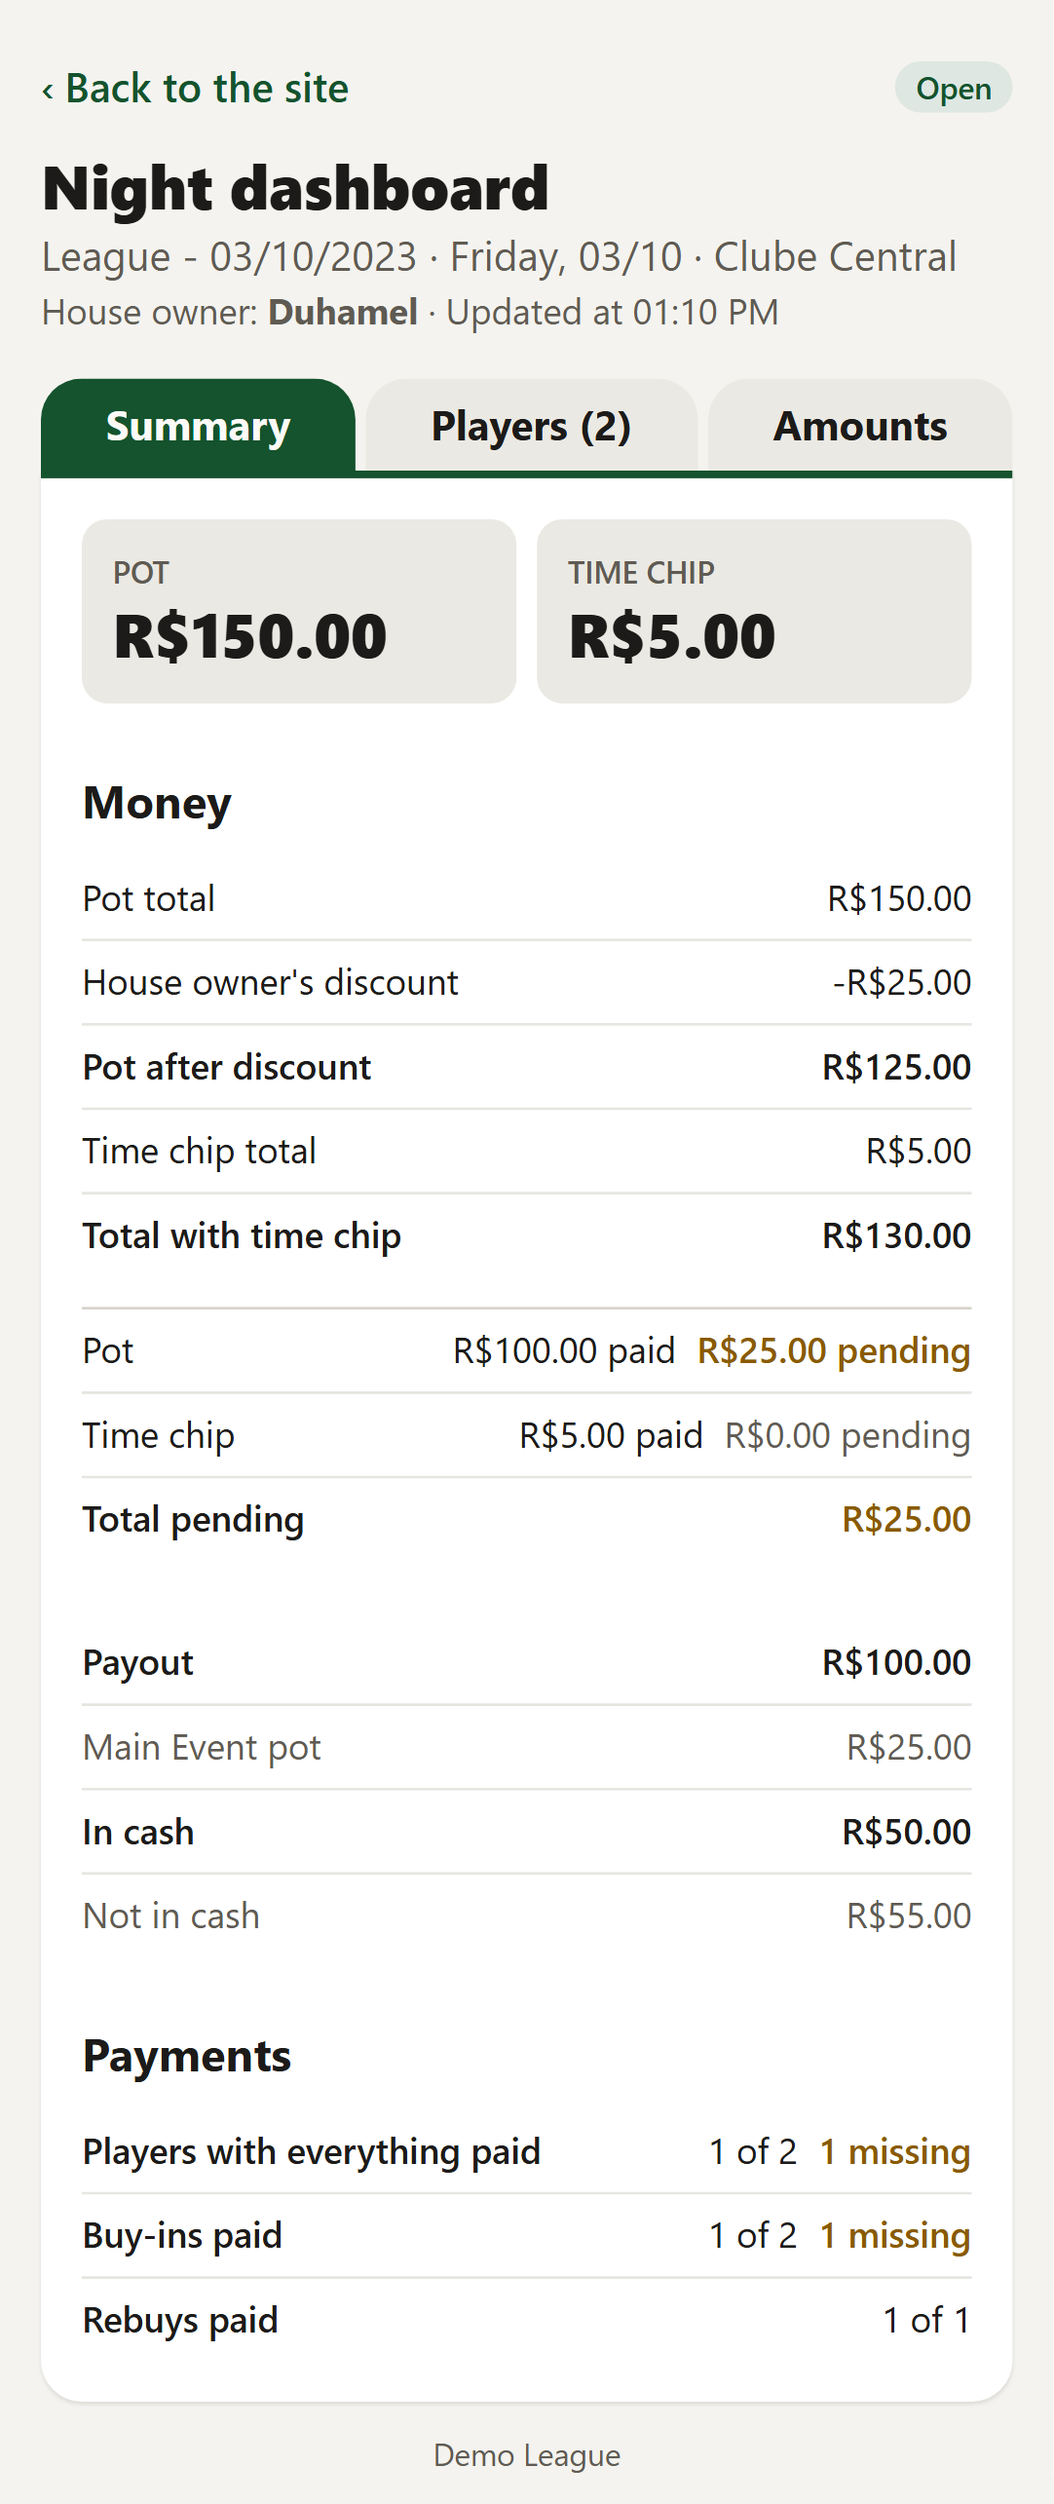
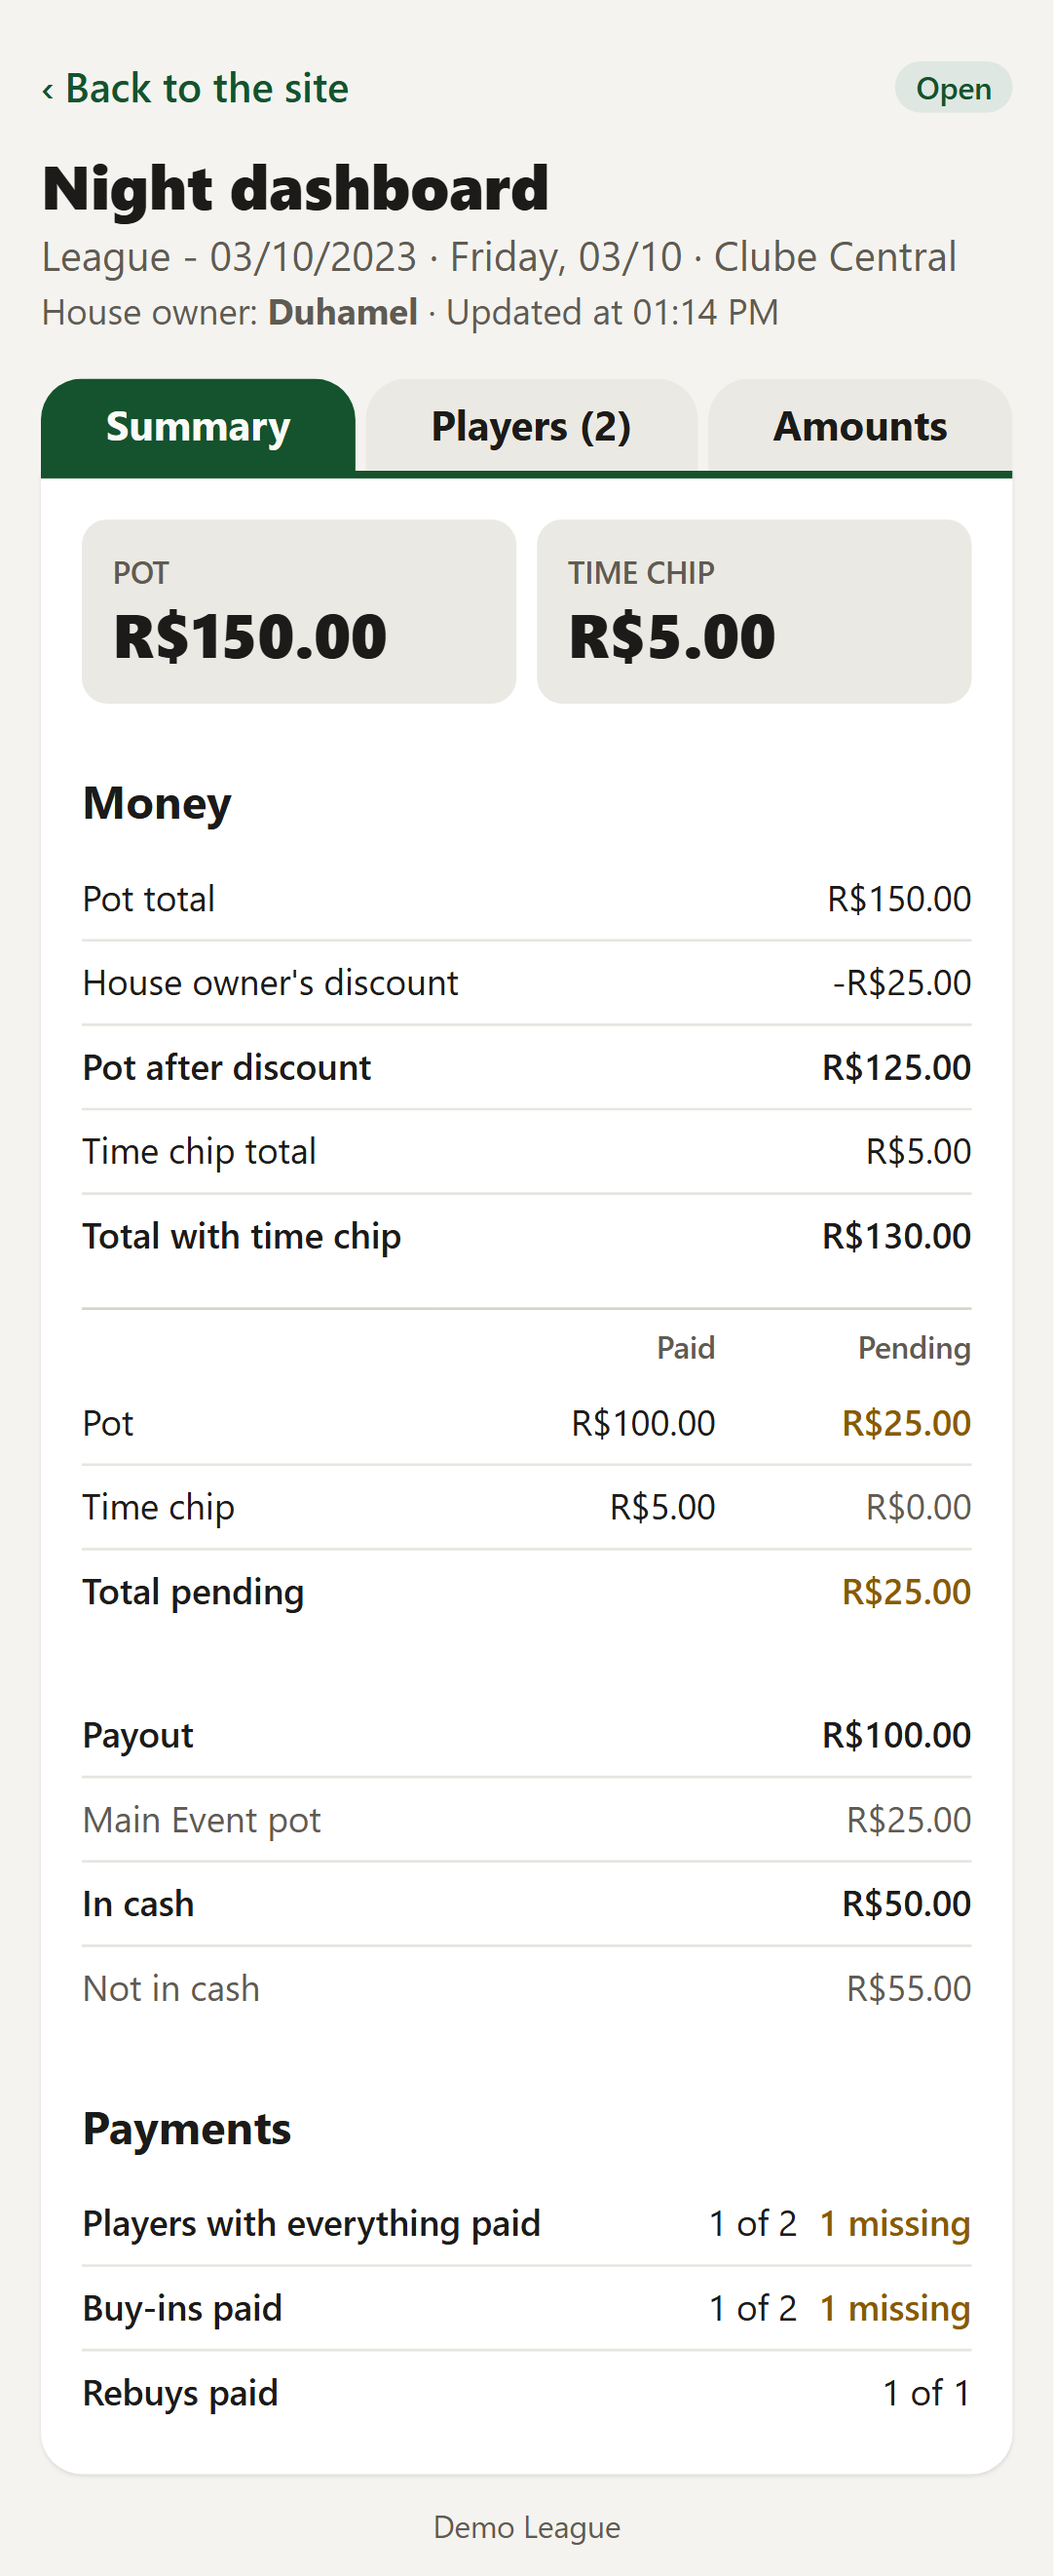
Line the summary's paid and pending up in a table
Claude-Session: https://claude.ai/code/session_019eCHvjApLfup8M1aYvA3m7

diff --git a/frontend/tests/night-dashboard.spec.ts b/frontend/tests/night-dashboard.spec.ts
@@ -50,14 +50,14 @@ test('players record the payments of an open night on its dashboard, and the kee
   await expect(marksOf(page, 'Jacobson').getByRole('button', { name: 'Buy-in' })).toHaveAttribute('aria-pressed', 'true')
   // The tap confirmed him: his row says when
   await expect(page.getByRole('listitem').filter({ hasText: 'Jacobson' })).toContainText(/Confirmou \d{2}\/\d{2} às \d{2}:\d{2}/)
-  await expect(money(page)).toContainText('PotePago R$ 50,00Falta R$ 0,00')
+  await expect(money(page)).toContainText('PoteR$ 50,00R$ 0,00')
 
   // A rebuy is owed until it is marked as paid, and adds its time chip, which is shown apart from the pot
   await marksOf(page, 'Jacobson').getByRole('button', { name: '+ Rebuy' }).click()
   await expect(totals(page)).toContainText('PoteR$ 100,00')
   await expect(totals(page)).toContainText('Time chipR$ 5,00')
-  await expect(money(page)).toContainText('PotePago R$ 50,00Falta R$ 50,00')
-  await expect(money(page)).toContainText('Time chipPago R$ 0,00Falta R$ 5,00')
+  await expect(money(page)).toContainText('PoteR$ 50,00R$ 50,00')
+  await expect(money(page)).toContainText('Time chipR$ 0,00R$ 5,00')
   await marksOf(page, 'Jacobson').getByRole('button', { name: 'Rebuy 1' }).click()
   await expect(money(page)).toContainText('Total com time chipR$ 105,00')
   await expect(money(page)).toContainText('Total que faltaR$ 0,00')
@@ -82,7 +82,7 @@ test('players record the payments of an open night on its dashboard, and the kee
   await expect(page.getByText('Dono da casa: Duhamel')).toBeVisible()
   await expect(totals(page)).toContainText('PoteR$ 150,00')
   await expect(money(page)).toContainText('Desconto do dono da casa-R$ 25,00Pote com descontoR$ 125,00')
-  await expect(money(page)).toContainText('PotePago R$ 100,00Falta R$ 25,00')
+  await expect(money(page)).toContainText('PoteR$ 100,00R$ 25,00')
 
   // Each amount is in a closed field until it is marked "Manual". The Main Event pot is the season's share of the money
   await openTab(page, 'Valores')
@@ -107,7 +107,7 @@ test('players record the payments of an open night on its dashboard, and the kee
   await page.getByRole('button', { name: 'Salvar' }).click()
   await expect(totals(page)).toContainText('PoteR$ 150,00')
   await expect(money(page)).toContainText('Desconto do dono da casa-R$ 25,00')
-  await expect(money(page)).toContainText('PotePago R$ 100,00Falta R$ 25,00')
+  await expect(money(page)).toContainText('PoteR$ 100,00R$ 25,00')
   await expect(page.getByLabel('Pote ME (R$)')).toHaveValue('25,00')
   // An adjustment of what was not in cash, for anything out of the ordinary, takes a negative amount
   // …in a field that shows only once its mark is ticked
@@ -142,7 +142,7 @@ test('players record the payments of an open night on its dashboard, and the kee
   await openTab(keeper, /^Jogadores/)
   await expect(marksOf(keeper, 'Jacobson').getByRole('button', { name: 'Rebuy 1' })).toHaveAttribute('aria-pressed', 'true')
   await marksOf(keeper, 'Duhamel').getByRole('button', { name: 'Buy-in' }).click()
-  await expect(money(keeper)).toContainText('PotePago R$ 125,00')
+  await expect(money(keeper)).toContainText('PoteR$ 125,00')
   // …which the player's dashboard shows by itself a few seconds later
   await openTab(page, /^Jogadores/)
   await expect(marksOf(page, 'Duhamel').getByRole('button', { name: 'Buy-in' })).toHaveAttribute('aria-pressed', 'true', { timeout: 20_000 })
@@ -205,7 +205,7 @@ test('an admin undoes the opening of a night opened by mistake, and what its das
   await openTab(page, /^Jogadores/)
   await page.getByRole('searchbox', { name: 'Adicionar jogador' }).fill('jacob')
   await page.getByRole('group', { name: 'Adicionar Jacobson' }).getByRole('button', { name: 'Buy-in pago' }).click()
-  await expect(money(page)).toContainText('PotePago R$ 50,00Falta R$ 0,00')
+  await expect(money(page)).toContainText('PoteR$ 50,00R$ 0,00')
   // A results keeper cannot undo the opening
   await page.goto(nightUrl)
   await expect(page.getByRole('link', { name: /Finalizar/ })).toBeVisible()

diff --git a/frontend/src/features/dashboard/NightDashboardView.tsx b/frontend/src/features/dashboard/NightDashboardView.tsx
@@ -454,23 +454,34 @@ function DashboardSummary({ dashboard }: { dashboard: NightDashboard }) {
             </div>
           ))}
         </dl>
-        <dl className="mt-3 divide-y divide-border/60 border-t border-border text-sm">
-          {balances.map(({ label, amounts }) => (
-            <div key={label} className="flex flex-wrap items-baseline justify-between gap-x-2 py-1.5">
-              <dt>{label}</dt>
-              <dd className="text-right tabular">
-                {t.dashboard.totals.paid({ amount: formatMoney(amounts.paid) })}
-                <span className={`ml-2 ${Number(amounts.pending) > 0 ? 'font-semibold text-warning' : 'text-muted'}`}>
-                  {t.dashboard.totals.pending({ amount: formatMoney(amounts.pending) })}
-                </span>
-              </dd>
-            </div>
-          ))}
-          <div className="flex items-baseline justify-between gap-2 py-1.5">
-            <dt className="font-semibold">{t.dashboard.money.totalPending}</dt>
-            <dd className={`tabular font-semibold ${Number(totals.total.pending) > 0 ? 'text-warning' : ''}`}>{formatMoney(totals.total.pending)}</dd>
-          </div>
-        </dl>
+        {/* A table, so that what was paid and what is pending line up in columns. */}
+        <table className="mt-3 w-full border-collapse border-t border-border text-sm">
+          <thead>
+            <tr className="text-xs text-muted">
+              <th scope="col"><span className="sr-only">{t.dashboard.money.title}</span></th>
+              <th scope="col" className="py-1.5 pl-3 text-right font-semibold">{t.dashboard.money.paid}</th>
+              <th scope="col" className="py-1.5 pl-3 text-right font-semibold">{t.dashboard.money.pending}</th>
+            </tr>
+          </thead>
+          <tbody className="divide-y divide-border/60">
+            {balances.map(({ label, amounts }) => (
+              <tr key={label}>
+                <th scope="row" className="py-1.5 text-left font-normal">{label}</th>
+                <td className="py-1.5 pl-3 text-right tabular">{formatMoney(amounts.paid)}</td>
+                <td className={`py-1.5 pl-3 text-right tabular ${Number(amounts.pending) > 0 ? 'font-semibold text-warning' : 'text-muted'}`}>
+                  {formatMoney(amounts.pending)}
+                </td>
+              </tr>
+            ))}
+            <tr>
+              <th scope="row" className="py-1.5 text-left font-semibold">{t.dashboard.money.totalPending}</th>
+              <td />
+              <td className={`py-1.5 pl-3 text-right tabular font-semibold ${Number(totals.total.pending) > 0 ? 'text-warning' : ''}`}>
+                {formatMoney(totals.total.pending)}
+              </td>
+            </tr>
+          </tbody>
+        </table>
       </section>
 
       <section aria-label={t.dashboard.summary.payout}>

diff --git a/frontend/src/features/dashboard/NightDashboardView.test.tsx b/frontend/src/features/dashboard/NightDashboardView.test.tsx
@@ -69,9 +69,9 @@ describe('NightDashboardView', () => {
     expect(money.getByText('Pote com desconto').closest('div')).toHaveTextContent('Pote com descontoR$ 425,00')
     expect(money.getByText('Time chip total').closest('div')).toHaveTextContent('Time chip totalR$ 25,00')
     expect(money.getByText('Total com time chip').closest('div')).toHaveTextContent('Total com time chipR$ 450,00')
-    expect(money.getByText('Pote').closest('div')).toHaveTextContent('PotePago R$ 275,00Falta R$ 150,00')
-    expect(money.getByText('Time chip').closest('div')).toHaveTextContent('Time chipPago R$ 20,00Falta R$ 5,00')
-    expect(money.getByText('Total que falta').closest('div')).toHaveTextContent('Total que faltaR$ 155,00')
+    expect(money.getByText('Pote').closest('tr')).toHaveTextContent('PoteR$ 275,00R$ 150,00')
+    expect(money.getByText('Time chip').closest('tr')).toHaveTextContent('Time chipR$ 20,00R$ 5,00')
+    expect(money.getByText('Total que falta').closest('tr')).toHaveTextContent('Total que faltaR$ 155,00')
   })
 
   it('adds no pot less the discount when the house owner has no discount', () => {
@@ -169,7 +169,7 @@ describe('NightDashboardView', () => {
     const split = within(screen.getByRole('region', { name: 'Premiação' }))
     expect(split.getByText('Em dinheiro').closest('div')).toHaveTextContent('Em dinheiroR$ 190,00')
     expect(split.getByText('Fora do dinheiro').closest('div')).toHaveTextContent('Fora do dinheiroR$ 105,00')
-    expect(within(screen.getByRole('region', { name: 'Dinheiro' })).getByText('Total que falta').closest('div')).toHaveTextContent('Total que faltaR$ 155,00')
+    expect(within(screen.getByRole('region', { name: 'Dinheiro' })).getByText('Total que falta').closest('tr')).toHaveTextContent('Total que faltaR$ 155,00')
   })
 
   it('shows the field of the adjustment of what was not in cash only while it is marked, and takes a negative amount', async () => {
@@ -410,7 +410,7 @@ describe('NightDashboardView', () => {
     const money = within(screen.getByRole('region', { name: 'Dinheiro' }))
     expect(money.getByText('Pote total').closest('div')).toHaveTextContent('Pote totalCalculado R$ 450,00R$ 600,00')
     expect(money.getByText('Total com time chip').closest('div')).toHaveTextContent('Total com time chipR$ 600,00')
-    expect(money.getByText('Pote').closest('div')).toHaveTextContent('PotePago R$ 275,00Falta R$ 150,00')
+    expect(money.getByText('Pote').closest('tr')).toHaveTextContent('PoteR$ 275,00R$ 150,00')
 
     expect(screen.getByRole('checkbox', { name: 'Definir o pote manualmente' })).toBeChecked()
     expect(screen.getByRole('textbox', { name: 'Pote (R$)' })).toHaveValue('600,00')

diff --git a/frontend/src/i18n/pt-BR/dashboard.ts b/frontend/src/i18n/pt-BR/dashboard.ts
@@ -137,6 +137,9 @@ export const dashboard = {
     potPayments: 'Pote',
     timeChipPayments: 'Time chip',
     totalPending: 'Total que falta',
+    /** The headings of the columns of what was paid and what is pending. */
+    paid: 'Pago',
+    pending: 'Falta',
   },
   recorded: {
     title: 'Resultado registrado',

diff --git a/frontend/src/i18n/en/dashboard.ts b/frontend/src/i18n/en/dashboard.ts
@@ -122,6 +122,8 @@ export const dashboard = {
     potPayments: 'Pot',
     timeChipPayments: 'Time chip',
     totalPending: 'Total pending',
+    paid: 'Paid',
+    pending: 'Pending',
   },
   recorded: {
     title: 'Recorded result',
